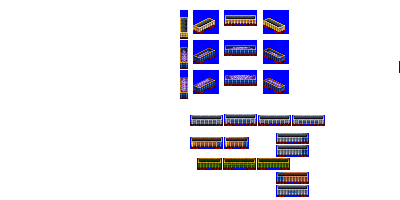
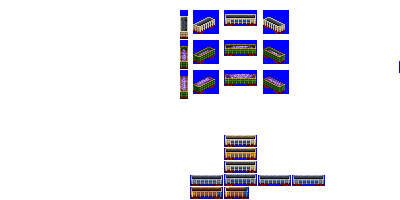
Codechange: swap gen 5 aggregate dump car to gen 3

Changed region(s): [[0.45, 0.66, 0.81, 1.0], [0.45, 0.06, 0.72, 0.51], [0.45, 0.57, 0.81, 0.63]]

diff --git a/src/vehicles/pony/aggregate_dump_cars_type_3_pony.py b/src/vehicles/pony/aggregate_dump_cars_type_3_pony.py
@@ -1,10 +1,10 @@
-from train import DumpCarAggregateConsistType5, FreightCar
+from train import DumpCarAggregateConsistType3, FreightCar
 
 
 def main(roster_id, **kwargs):
     # --------------- standard gauge ---------------------------------------------------------------
 
-    consist = DumpCarAggregateConsistType5(
+    consist = DumpCarAggregateConsistType3(
         roster_id=roster_id,
         roster_id_providing_module=kwargs["roster_id_providing_module"],
         base_numeric_id=35280,
@@ -15,7 +15,7 @@ def main(roster_id, **kwargs):
 
     consist.add_unit(type=FreightCar, chassis="4_axle_sparse_greebled_24px")
 
-    consist = DumpCarAggregateConsistType5(
+    consist = DumpCarAggregateConsistType3(
         roster_id=roster_id,
         roster_id_providing_module=kwargs["roster_id_providing_module"],
         base_numeric_id=35290,

diff --git a/src/train.py b/src/train.py
@@ -4343,14 +4343,14 @@ class DumpCarAggregateConsistType2(DumpCarConsistBase):
         ]
 
 
-class DumpCarAggregateConsistType5(DumpCarConsistBase):
+class DumpCarAggregateConsistType3(DumpCarConsistBase):
     """
     Aggregate Car.
     Same as standard dump car, but different appearance and default cargos.
     """
 
     def __init__(self, **kwargs):
-        self.base_id = "aggregate_dump_car_type_5"
+        self.base_id = "aggregate_dump_car_type_3"
         super().__init__(**kwargs)
         self.default_cargos = polar_fox.constants.default_cargos["dump_aggregates"]
         # buyable variant groups are created post-hoc and can group across subclasses

diff --git a/src/rosters/pony.py b/src/rosters/pony.py
@@ -231,7 +231,7 @@ wagon_module_names_with_roster_ids = {
     "aggregate_dump_cars_randomised": "pony",
     "aggregate_dump_cars_type_1": "pony",
     "aggregate_dump_cars_type_2": "pony",
-    "aggregate_dump_cars_type_5": "pony",
+    "aggregate_dump_cars_type_3": "pony",
     "aggregate_hopper_cars_randomised": "pony",
     "aggregate_hopper_cars_type_1": "pony",
     "aggregate_hopper_cars_type_2": "pony",

diff --git a/src/global_constants.py b/src/global_constants.py
@@ -87,7 +87,7 @@ wagon_module_name_stems = [
     "dump_cars_randomised",
     "aggregate_dump_cars_type_1",
     "aggregate_dump_cars_type_2",
-    "aggregate_dump_cars_type_5",
+    "aggregate_dump_cars_type_3",
     "aggregate_dump_cars_randomised",
     "ore_dump_cars",
     "scrap_metal_cars",
